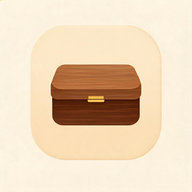
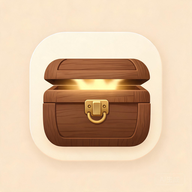
彻底修复日夜模式切换：开屏仅首访展示1.9s可轻触跳过、导览改为按需进入不再4s抢占全屏阻断点击；同步更换栖匣新品牌图标与启动屏；三级文案残留(把日子排布成自己的次序等)全部改为安放内核；SW缓存bump v72

diff --git a/index.html b/index.html
@@ -1168,7 +1168,7 @@ input:focus,textarea:focus,select:focus{border-color:var(--primary);background:#
   <div style="font-family:'Noto Serif SC','Songti SC','STSong',serif;font-size:46px;font-weight:800;color:#F3EEDF;letter-spacing:12px;margin-top:30px;opacity:0;animation:bins .9s .45s forwards">栖匣</div>
   <div style="font-size:13px;letter-spacing:6px;color:#E0C48C;margin-top:10px;opacity:0;animation:bins .9s .62s forwards">一只匣 · 安放四年</div>
   <div style="margin-top:20px;height:1px;width:60px;background:linear-gradient(90deg,transparent,#E0C48C,transparent);opacity:0;animation:bins .9s .78s forwards"></div>
-  <div style="margin-top:18px;font-family:'Noto Serif SC','Songti SC','STSong',serif;font-size:16px;color:rgba(243,238,223,.9);letter-spacing:5px;opacity:0;animation:bins .9s .92s forwards">把日子，排布成自己的次序</div>
+  <div style="margin-top:18px;font-family:'Noto Serif SC','Songti SC','STSong',serif;font-size:16px;color:rgba(243,238,223,.9);letter-spacing:5px;opacity:0;animation:bins .9s .92s forwards">先安放，再生长</div>
   <div style="margin-top:22px;display:flex;gap:0;align-items:flex-end;opacity:0;animation:bins .9s 1.08s forwards">
     <span style="display:flex;gap:7px;align-items:flex-end">
       <span style="width:14px;height:26px;border-radius:4px;background:#6E4F37"></span>
@@ -1197,13 +1197,14 @@ input:focus,textarea:focus,select:focus{border-color:var(--primary);background:#
     var e=bs();if(!e)return;
     var first=false;
     try{first=localStorage.getItem('pp_splash_seen')!=='1';if(first)localStorage.setItem('pp_splash_seen','1');}catch(err){}
-    /* 老用户 & 非外壳环境：直接跳过启动屏，页面前台内容立即呈现，不再强制等待 */
-    if(!first&&!inShell()){e.style.display='none';return;}
+    /* 启动屏只对「全新首次进入」展示一次；此后无论微信/安卓外壳还是常规浏览器，
+       一律直接跳过，不再强制等待、不再遮挡首屏交互（避免用户点主题/导航无反应的体感） */
+    if(!first){e.style.display='none';return;}
     e.style.display='flex';e.style.opacity='1';
     e.addEventListener('click',function(){dismiss(e);});
-    /* 让开屏优雅放完即进入产品：文字分层淡入、轻触可随时跳过；首次展示时长放长，
-       确保「晨珠」图标足够停留、用户能看清品牌印记，再配合柔和淡出，避免一闪即逝。 */
-    setTimeout(function(){dismiss(e);}, first?3600:2000);
+    /* 开屏放完即进入产品：文字分层淡入、轻触可随时跳过；首屏时长缩短到 2 秒内，
+       友好淡出后立刻让位给真实工具，不喧宾夺主。 */
+    setTimeout(function(){dismiss(e);},1900);
   }
   show();
 })();
@@ -11473,7 +11474,7 @@ document.addEventListener('keydown',function(e){if(e.key==='Escape')closeQrPrevi
       '<div style="position:absolute;left:-40px;top:-46px;width:190px;height:190px;border-radius:50%;background:radial-gradient(circle,rgba(191,240,218,.16),rgba(255,255,255,0) 70%)"></div>'+
       '<div style="position:absolute;right:-56px;bottom:-56px;width:220px;height:220px;border-radius:50%;background:radial-gradient(circle,rgba(201,161,94,.20),rgba(255,255,255,0) 70%)"></div>'+
       '<div style="position:absolute;top:12px;left:16px">'+
-        '<span style="font-size:11px;letter-spacing:3px;color:#B6A995">把日子，排布成自己的次序</span>'+
+        '<span style="font-size:11px;letter-spacing:3px;color:#B6A995">先安放，再生长 · 你的四年有处安放</span>'+
       '</div>'+
       '<div style="position:relative;margin:14px auto 0;width:66px;height:66px;border-radius:50%;display:flex;align-items:center;justify-content:center;border:1.5px solid rgba(191,240,218,.85);background:rgba(255,255,255,.10);box-shadow:0 0 0 6px rgba(255,255,255,.06);overflow:hidden">'+
         '<img src="pwa/logo.png" alt="栖匣" style="width:60px;height:60px;border-radius:50%;display:block">'+
@@ -11952,14 +11953,9 @@ function panoBoot(){
   if(m)m.addEventListener('click',closePano);
   document.addEventListener('keydown',function(ev){if(ev.key==='Escape')closePano();});
   panoWire();
-  try{
-    /* 版本化 seen 标记：新版本上线后，老用户也能再看一次升级版导览，之后不再打扰 */
-    if(!localStorage.getItem('pp_pano_v4_seen')){
-      localStorage.setItem('pp_pano_v4_seen','1');
-      /* 等品牌启动屏淡出后再接出导览（首次开窗先见导览→再进产品）；导览需用户手动关闭才结束 */
-      setTimeout(openPano,4000);
-    }
-  }catch(e){}
+  /* 全景导览改为「按需进入」：不再首次打开时抢占全屏、不再遮挡首屏交互。
+     想了解产品的人随时点顶栏「导览」或菜单「查看产品导览」进入；
+     首次开窗由轻量的内页欢迎引导承接，避免被全屏长页打断。 */
 }
 if(document.readyState==='loading'){document.addEventListener('DOMContentLoaded',panoBoot);}else{panoBoot();}
 </script>
@@ -11979,7 +11975,7 @@ if(document.readyState==='loading'){document.addEventListener('DOMContentLoaded'
       <div class="pt-name-premium">
         <span class="pm-verse">一「栖」一「匣」：先安放，再生长。把状态收好，而不是时时催促。<em>—— 栖匣，为每一位大学生而来</em></span>
       </div>
-      <h1 class="pano-h1">把日子，过成<em class="pano-grow">自己的次序</em><span class="thin">：四年，去有所成，来有所依</span></h1>
+      <h1 class="pano-h1">把每一天，好好<em class="pano-grow">安放</em><span class="thin">：四年，去有所成，来有所栖</span></h1>
       <p class="dek"><em style="font-style:normal"><b>学业 · 目标 · 时间 · 金钱 · 健康 · 眼界</b></em>，六条线收拢到一处、互相咬合，陪你过好大学四年。零安装、零登录，数据只留在你自己设备里。<br>告别十几个 App 来回切换的疲惫，一点开就能用，用完即安心。</p>
       <div class="hr-dot"><i></i><span class="dm">◆ ◆</span><i class="rt"></i></div>
       <div class="pano-stats">

diff --git a/sw.js b/sw.js
@@ -13,7 +13,7 @@
  *    从未开通过的首次断网打开无法生效（还什么缓存都没有）。
  *  - 导航采用「网络优先」，联网取最新、断网用缓存兜底。
  */
-const CACHE = 'qixia-v71';
+const CACHE = 'qixia-v72';
 const SCOPE = new URL('./', self.location);          // 站点根目录
 const ROOT  = SCOPE.href;                            // 如 /pingwanxiang/
 const INDEX = new URL('./index.html', SCOPE).href;   // 主页绝对地址
